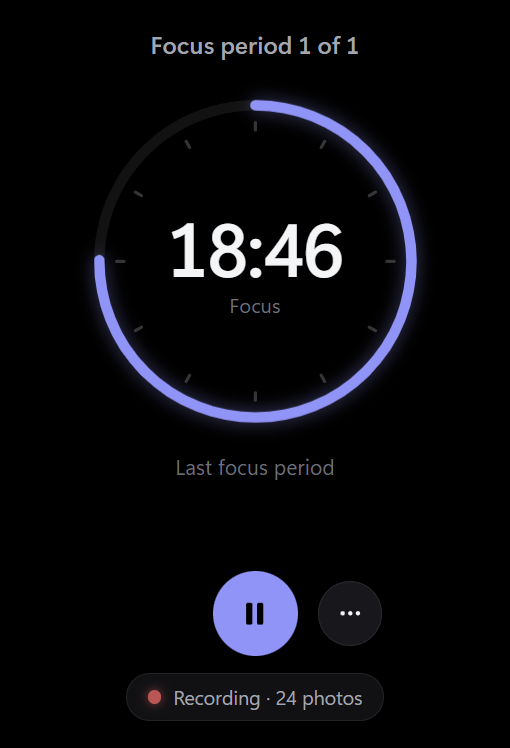
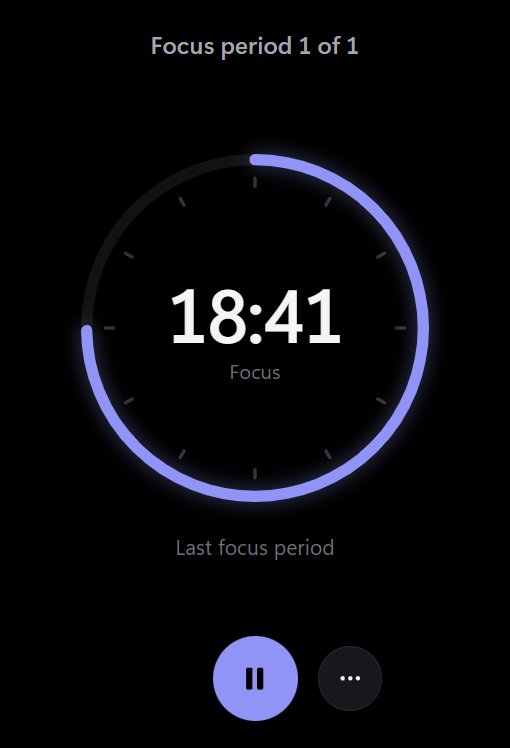
Pomodoro: simpler timelapse card, record the whole session, centre the ring
The card now asks only for the speed (one photo every 15, 20, 30 or 60 s) and
shows the resulting video length. Video length and frame rate inputs are gone;
videos play at a fixed 30 fps.

The widget used to ask the host for just the planned session's stills, so Add 5
minutes or a pause ended the recording early. It now asks for the most the host
allows at that speed and stop() at session end renders what was captured.

The ring and "Up next" now sit midway between the header and the controls.

Changed region(s): [[0.1471, 0.123, 0.8529, 0.6765], [0.2647, 0.7072, 0.7647, 0.984]]

diff --git a/widgets/pomodoro/timelapse.js b/widgets/pomodoro/timelapse.js
@@ -2,24 +2,50 @@
 // Browser: window.PomodoroTimelapse. Node: module.exports.
 (function (root) {
   "use strict";
-  const MAX_STILLS = 3600; // the host's cap per video
-  const DEFAULTS = { on: false, interval: 30, length: 30, fps: 30 };
-  const num = (v, lo, hi, d) => { const n = Math.round(Number(v)); return Number.isFinite(n) ? Math.min(hi, Math.max(lo, n)) : d; };
+  const MAX_STILLS = 3600, MAX_SECONDS = 12 * 3600; // the host's caps per video (TimelapsePlan.Create)
+  const INTERVALS = [15, 20, 30, 60], FPS = 30;
+  const DEFAULTS = { on: false, interval: 30 };
 
-  /** Clean saved settings: interval 1-3600 s, max video length 1-3600 s, fps 1-60, and length * fps within the host's 3600 stills. */
+  /** Clean saved settings: the on switch and one of INTERVALS (older saves with any other number snap to the nearest). */
   function clean(t) {
     t = t || {};
-    const fps = num(t.fps, 1, 60, DEFAULTS.fps);
-    const length = Math.min(num(t.length, 1, 3600, DEFAULTS.length), Math.floor(MAX_STILLS / fps));
-    return { on: t.on === true, interval: num(t.interval, 1, 3600, DEFAULTS.interval), length: Math.max(1, length), fps };
+    const n = Number(t.interval);
+    const interval = Number.isFinite(n) ? INTERVALS.reduce((best, v) => (Math.abs(v - n) < Math.abs(best - n) ? v : best)) : DEFAULTS.interval;
+    return { on: t.on === true, interval };
   }
 
-  /** What a session of `minutes` will give: photos taken and the resulting video seconds (capped by the chosen length). */
+  /** The neighbouring speed: dir -1 is a shorter gap, +1 a longer one. Stays put at either end. */
+  function stepInterval(interval, dir) {
+    const i = INTERVALS.indexOf(clean({ interval }).interval);
+    return INTERVALS[Math.min(INTERVALS.length - 1, Math.max(0, i + dir))];
+  }
+
+  /** What a session of `minutes` will give: photos taken and the resulting video seconds. */
   function estimate(t, minutes) {
-    t = clean(t);
-    const cap = t.length * t.fps, raw = Math.floor((minutes * 60) / t.interval);
-    const frames = Math.max(1, Math.min(cap, raw));
-    return { frames, seconds: frames / t.fps, capped: raw > cap };
+    const frames = Math.max(1, Math.floor((minutes * 60) / clean(t).interval));
+    return { frames, seconds: frames / FPS };
+  }
+
+  /** "0.8 s", "8 s", "1 min 20 s": one decimal only while a tenth is still noticeable. */
+  function videoLength(seconds) {
+    if (seconds < 10) return `${Math.round(seconds * 10) / 10} s`;
+    const s = Math.round(seconds), m = Math.floor(s / 60);
+    return m ? `${m} min${s % 60 ? ` ${s % 60} s` : ""}` : `${s} s`;
+  }
+
+  /** The card's subtitle for a session of `minutes`. */
+  function summary(t, minutes) {
+    const e = estimate(t, minutes);
+    return `${videoLength(e.seconds)} video · ${e.frames} photo${e.frames === 1 ? "" : "s"}`;
+  }
+
+  /**
+   * Arguments for umbra.timelapse.start. The host stops at the stills it was asked for, so this asks for the most it allows at
+   * this speed: Add 5 minutes or a pause can't end the recording early. Ending the session stops it and renders what was taken.
+   */
+  function request(t) {
+    const interval = clean(t).interval, stills = Math.min(MAX_STILLS, Math.floor(MAX_SECONDS / interval) + 1);
+    return { interval, length: stills / FPS, fps: FPS };
   }
 
   /** Plain-words version of a host error. */
@@ -49,6 +75,6 @@
     return { kind: "idle", text: "Timelapse not running", action: "Start" };
   }
 
-  const api = { MAX_STILLS, DEFAULTS, clean, estimate, friendly, status };
+  const api = { MAX_STILLS, MAX_SECONDS, INTERVALS, FPS, DEFAULTS, clean, stepInterval, estimate, videoLength, summary, request, friendly, status };
   if (typeof module !== "undefined" && module.exports) module.exports = api; else root.PomodoroTimelapse = api;
 })(typeof window !== "undefined" ? window : globalThis);

diff --git a/widgets/pomodoro/pomodoro.js b/widgets/pomodoro/pomodoro.js
@@ -93,9 +93,7 @@ async function startTl() {
   if (tlBusy || tlActive() || !session) return;
   tlBusy = true; tlError = ""; tlState = null; render();
   try {
-    // The video holds one frame per photo: aim for the session's own photo count, never above the chosen length.
-    const e = T.estimate(tl, session.total);
-    tlState = await umbra.timelapse.start({ interval: tl.interval, length: Math.max(1, Math.ceil(e.seconds)), fps: tl.fps });
+    tlState = await umbra.timelapse.start(T.request(tl));
     if (tlState && tlState.error) tlError = T.friendly(tlState.error);
   } catch (err) { tlError = T.friendly(err && err.message); }
   tlBusy = false; render();
@@ -125,14 +123,13 @@ function renderTl() {
   setText(act, v.action || "");
 }
 function renderTlSetup() {
-  if (document.activeElement.id !== "tl-interval") q("tl-interval").value = tl.interval;
-  if (document.activeElement.id !== "tl-length") q("tl-length").value = tl.length;
-  if (document.activeElement.id !== "tl-fps") q("tl-fps").value = tl.fps;
+  setText(q("tl-interval"), `${tl.interval} s`);
+  q("tl-prev").disabled = tl.interval === T.INTERVALS[0];
+  q("tl-next").disabled = tl.interval === T.INTERVALS.at(-1);
   q("tl-on").checked = tl.on;
   q("tl-fields").hidden = !tl.on;
   q("tl-folder").textContent = folderLabel;
-  const e = T.estimate(tl, setup.minutes);
-  setText(q("tl-sum"), tl.on ? `About ${plural(e.frames, "photo")}, ${Math.round(e.seconds * 10) / 10} s video${e.capped ? " (at the limit)" : ""}` : "Off");
+  setText(q("tl-sum"), tl.on ? T.summary(tl, setup.minutes) : "Off");
 }
 const setTl = (patch) => { tl = T.clean({ ...tl, ...patch }); store("timelapse", tl); render(); };
 function toggle() {
@@ -223,11 +220,8 @@ q("minutes").onchange = () => setMinutes(q("minutes").value);
 q("minutes").onkeydown = (e) => { if (e.key === "Enter") q("minutes").blur(); };
 q("skip-breaks").onchange = () => { setup.breaks = !q("skip-breaks").checked; store("setup", setup); render(); };
 q("tl-on").onchange = () => setTl({ on: q("tl-on").checked });
-for (const [id, key] of [["tl-interval", "interval"], ["tl-length", "length"], ["tl-fps", "fps"]]) {
-  q(id).onfocus = () => umbra.requestFocus?.();
-  q(id).onchange = () => setTl({ [key]: q(id).value });
-  q(id).onkeydown = (e) => { if (e.key === "Enter") q(id).blur(); };
-}
+q("tl-prev").onclick = () => setTl({ interval: T.stepInterval(tl.interval, -1) });
+q("tl-next").onclick = () => setTl({ interval: T.stepInterval(tl.interval, 1) });
 q("tl-folder").onclick = () => umbra.timelapse.chooseFolder()
   .then((r) => { if (r && r.folder) { folderLabel = r.folder; render(); } })
   .catch((err) => { const m = q("setup-msg"); m.textContent = T.friendly(err && err.message); m.hidden = false; });

diff --git a/widgets/pomodoro/timelapse.css b/widgets/pomodoro/timelapse.css
@@ -3,14 +3,12 @@
 .setup .pick { flex: 1 0 auto; }
 .tl-body { display: flex; flex-direction: column; gap: 8px; padding: 2px 12px 11px; }
 .tl-body[hidden] { display: none; }
-.tl-grid { display: grid; grid-template-columns: repeat(3, 1fr); gap: 8px; }
-.tl-grid label { display: flex; flex-direction: column; gap: 4px; min-width: 0; font-size: 10.5px; white-space: nowrap; color: var(--text-3); }
-.field { display: flex; align-items: center; gap: 3px; height: 28px; padding: 0 7px; background: var(--surface-3); border: 1px solid var(--line); border-radius: 8px; transition: border-color calc(120ms * var(--motion-scale, 1)); }
-.field:hover { border-color: var(--line-strong); }
-.field:focus-within { border-color: var(--accent); }
-.field input { flex: 1; width: 100%; min-width: 0; padding: 0; font: inherit; font-size: 12.5px; color: var(--text); text-align: right; background: none; border: 0; outline: none; -moz-appearance: textfield; }
-.field input::-webkit-inner-spin-button, .field input::-webkit-outer-spin-button { -webkit-appearance: none; margin: 0; }
-.field i { flex: none; font-style: normal; font-size: 10.5px; color: var(--text-3); }
+.tl-step { display: flex; align-items: center; flex: none; margin-right: -8px; } /* the last arrow's glyph lines up with the row's right edge */
+.tl-step b { min-width: 34px; font-size: 12.5px; font-weight: 600; text-align: center; color: var(--text); }
+.tl-step button { width: 24px; height: 24px; padding: 0 0 2px; font: inherit; font-size: 16px; line-height: 1; color: var(--text-2); background: none; border: 0; border-radius: 7px; cursor: pointer; transition: background calc(120ms * var(--motion-scale, 1)); }
+.tl-step button:hover:not(:disabled) { color: var(--text); background: var(--surface-3); }
+.tl-step button:focus-visible { outline: 2px solid var(--accent-strong); outline-offset: 1px; }
+.tl-step button:disabled { opacity: 0.3; cursor: default; }
 .tl-row { display: flex; align-items: center; justify-content: space-between; gap: 12px; font-size: 11.5px; color: var(--text-3); }
 .link { min-width: 0; padding: 0; overflow: hidden; font: inherit; font-size: 11.5px; font-weight: 600; white-space: nowrap; text-overflow: ellipsis; color: var(--accent-strong); background: none; border: 0; cursor: pointer; }
 .link:hover { color: var(--text); text-decoration: underline; text-underline-offset: 2px; }

diff --git a/widgets/pomodoro/index.html b/widgets/pomodoro/index.html
@@ -39,10 +39,13 @@
           <span class="knob" aria-hidden="true"></span>
         </label>
         <div class="tl-body" id="tl-fields">
-          <div class="tl-grid">
-            <label>Photo every <span class="field"><input class="num" id="tl-interval" type="number" min="1" max="3600" aria-label="Seconds between photos"><i>s</i></span></label>
-            <label>Video up to <span class="field"><input class="num" id="tl-length" type="number" min="1" max="3600" aria-label="Maximum video seconds"><i>s</i></span></label>
-            <label>Frame rate <span class="field"><input class="num" id="tl-fps" type="number" min="1" max="60" aria-label="Frames per second"><i>fps</i></span></label>
+          <div class="tl-row">
+            <span>1 photo every</span>
+            <span class="tl-step">
+              <button type="button" id="tl-prev" aria-label="Shorter gap between photos">&lsaquo;</button>
+              <b class="num" id="tl-interval" aria-live="polite">30 s</b>
+              <button type="button" id="tl-next" aria-label="Longer gap between photos">&rsaquo;</button>
+            </span>
           </div>
           <div class="tl-row"><span>Save to</span><button type="button" class="link" id="tl-folder">Videos</button></div>
         </div>

diff --git a/widgets/pomodoro/pomodoro.css b/widgets/pomodoro/pomodoro.css
@@ -40,7 +40,8 @@ html, body { height: 100%; overflow: hidden; background: var(--bg, #000); }
 /* Run */
 .run { align-items: center; }
 .run .head { justify-content: center; }
-.dial { position: relative; width: 204px; height: 204px; margin-top: 4px; flex: none; }
+/* margin-top: auto here and on .ctl share the spare height, so the ring and "Up next" sit midway between the header and the controls. */
+.dial { position: relative; width: 220px; height: 220px; margin-top: auto; flex: none; }
 .dial svg { position: absolute; inset: 0; width: 100%; height: 100%; transform: rotate(-90deg); overflow: visible; }
 .dial circle { fill: none; stroke-width: 3.6; }
 .track { stroke: rgba(255,255,255,0.07); }
